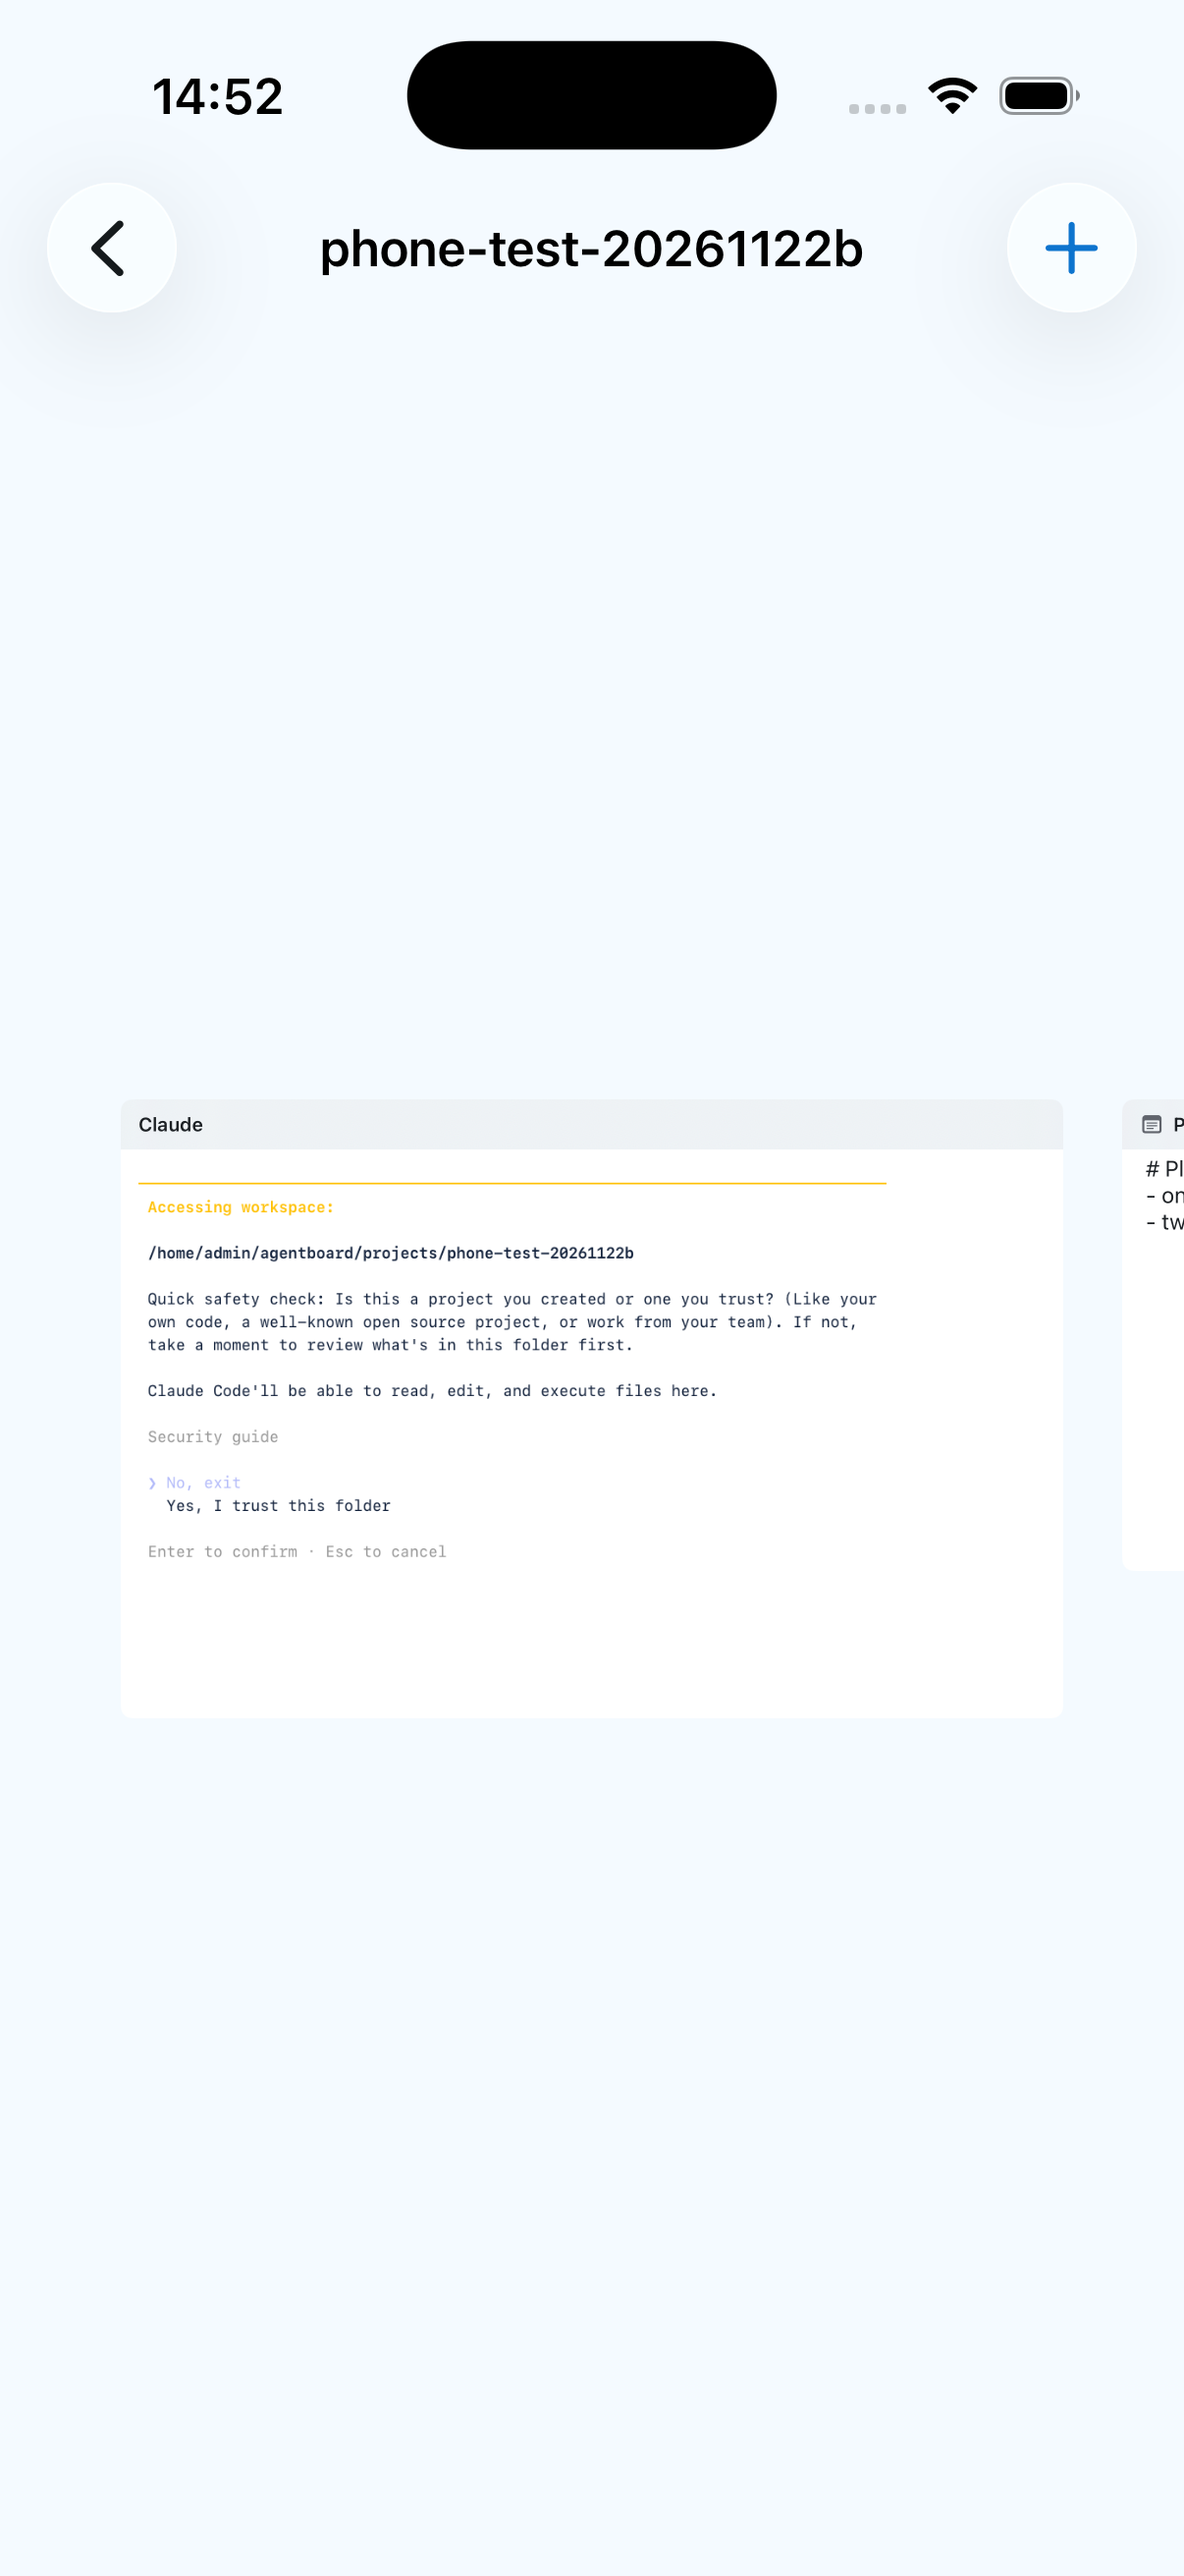
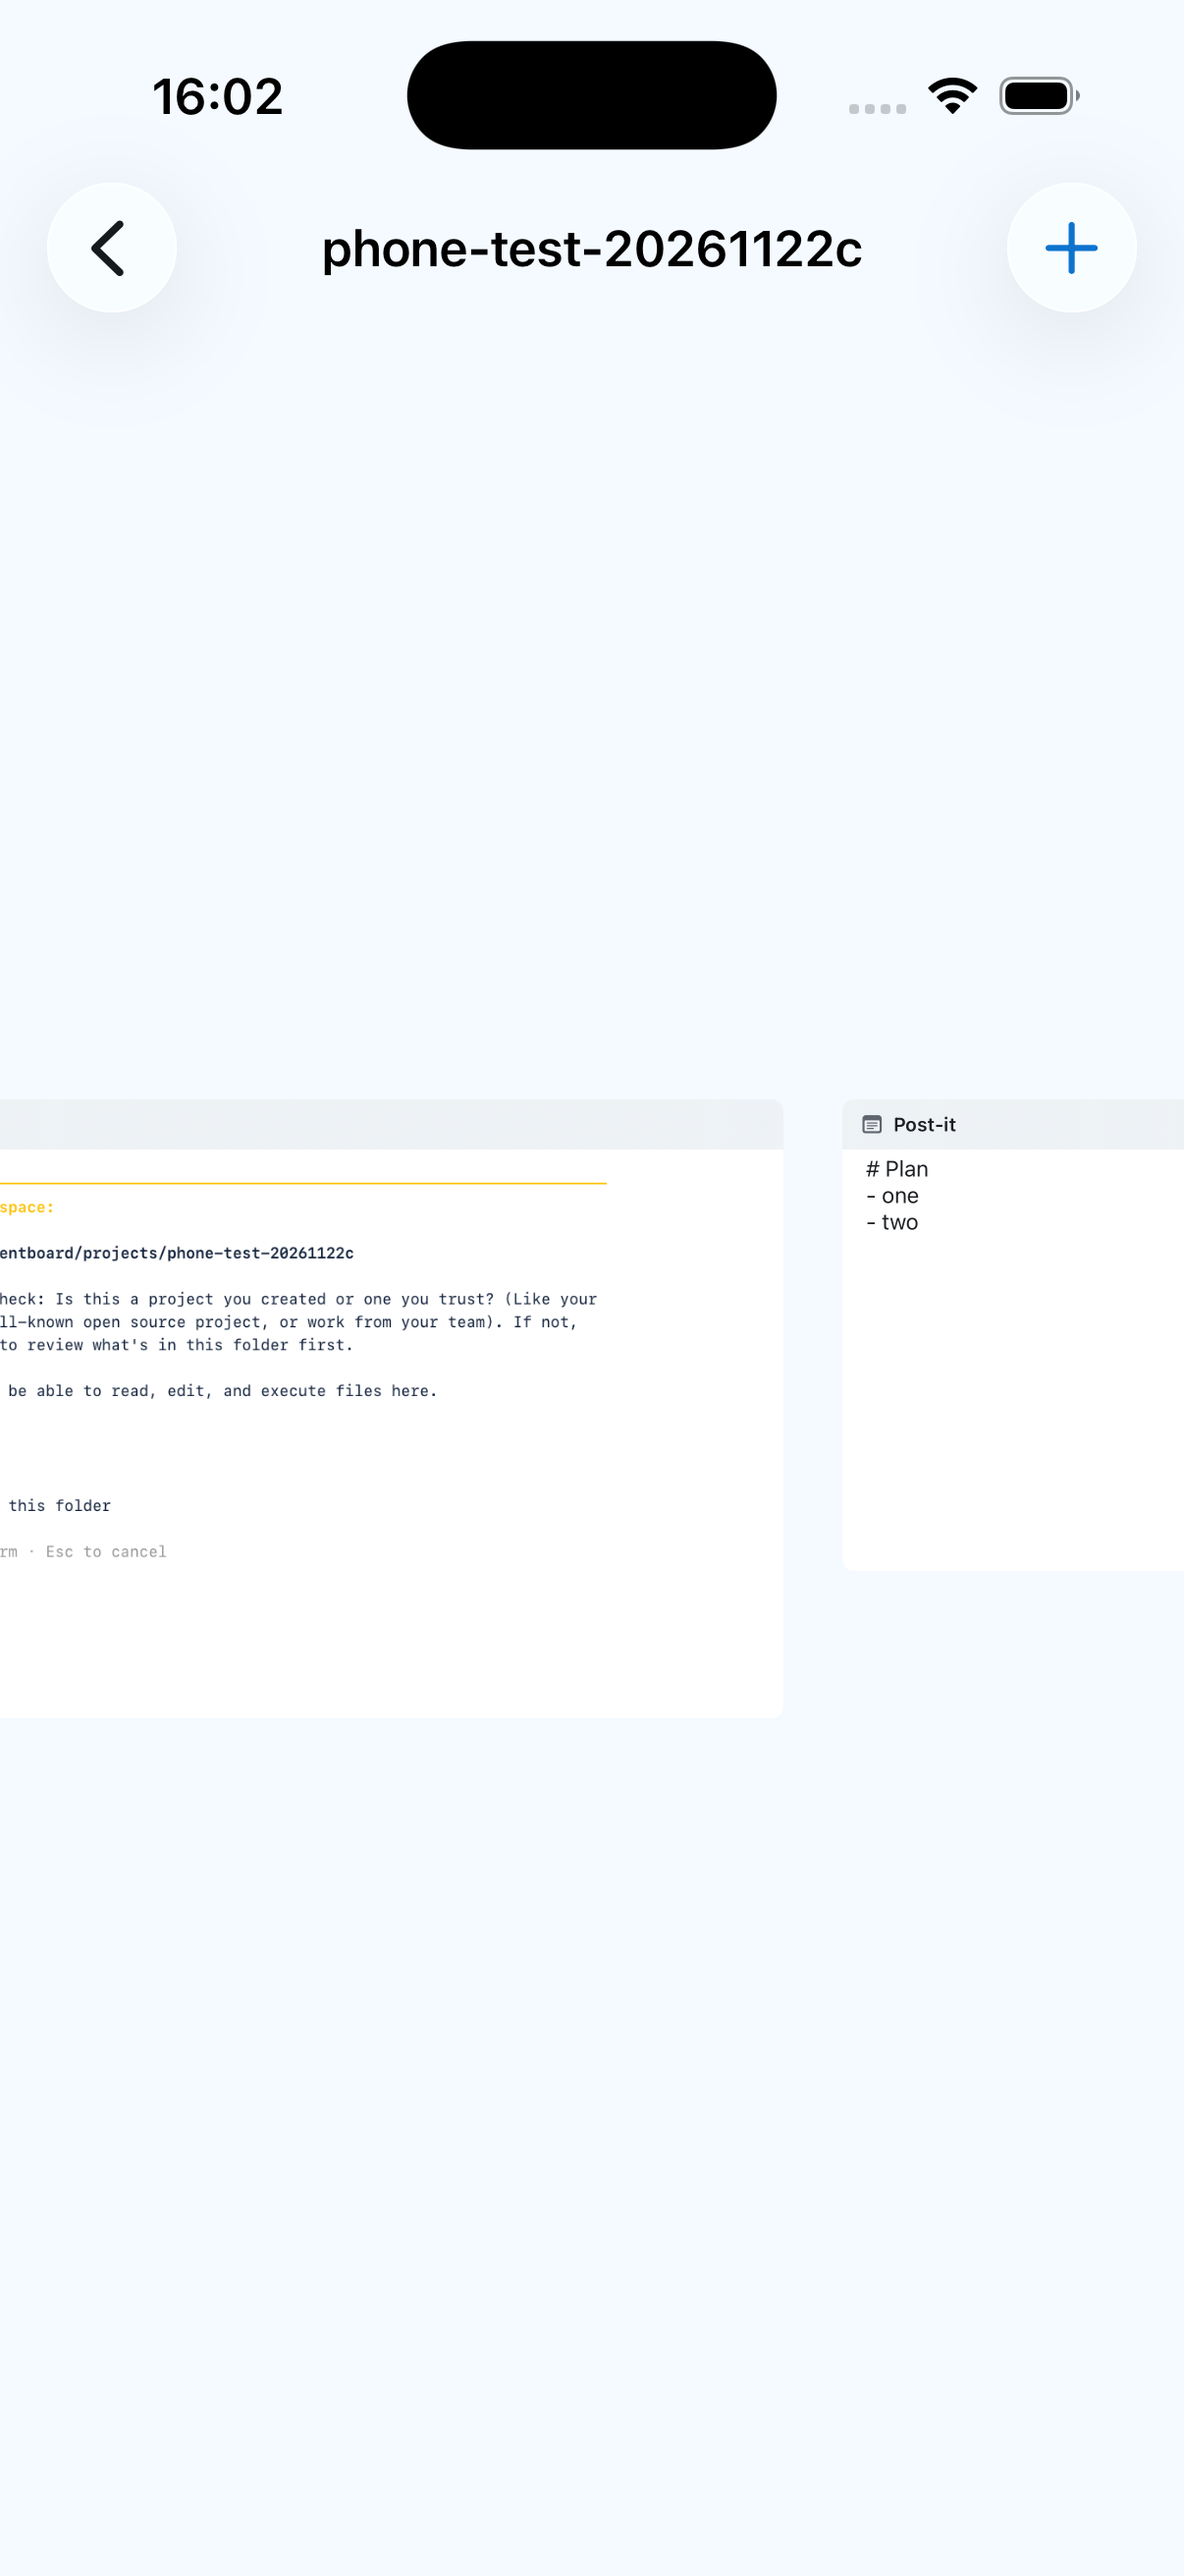
Phone: open fitted to every element, as the Mac frames a board; DEBUG layout log (board frame and screen position per element); board 7 screenshots

diff --git a/iOS/AgentBoardPhone/CanvasView.swift b/iOS/AgentBoardPhone/CanvasView.swift
@@ -49,14 +49,16 @@ struct CanvasView: View {
         GeometryReader { geometry in
             let bounds = (cards.map(\.frame) + Array(others.values)).reduce(CGRect.null) { $0.union($1) }
             let board = bounds.isNull ? CGRect(x: 0, y: 0, width: 1, height: 1) : bounds.insetBy(dx: -40, dy: -40)
-            // Starts with the terminal cards and post-its in view (the whole board when there are none): a
-            // long column of screenshots shouldn't shrink the agents to specks.
-            let cardBounds = (cards.map(\.frame) + notes.map(\.frame)).reduce(CGRect.null) { $0.union($1) }
-            let focus = cardBounds.isNull ? board : cardBounds.insetBy(dx: -40, dy: -40)
+            // Starts with every element in view, as the Mac frames a board.
+            let focus = board
             let fit = min(1, geometry.size.width / focus.width, geometry.size.height / focus.height)
             let scale = zoom == 0 ? fit : zoom
             let origin = CGPoint(x: focus.midX * scale - geometry.size.width / 2 - offset.width,
                                  y: focus.midY * scale - geometry.size.height / 2 - offset.height)
+            #if DEBUG
+            // Each element's board frame and where it lands on screen, once per layout change.
+            let _ = DebugLayout.log(scale: scale, origin: origin, [("card", cards.map { ($0.name, $0.frame) }), ("postit", notes.map { ($0.name, $0.frame) }), ("image", media.map { ($0.name, $0.frame) })])
+            #endif
             // What the screen shows, in board points: only cards there draw live.
             let visible = CGRect(x: origin.x / scale, y: origin.y / scale, width: geometry.size.width / scale, height: geometry.size.height / scale)
             let frame = { (card: Card) in dragging?.id == card.id ? dragging!.frame : card.frame }
@@ -439,3 +441,22 @@ struct DecisionBalloon: View {
 
     private static func distance(_ p: CGPoint, _ q: CGPoint) -> CGFloat { hypot(q.x - p.x, q.y - p.y) }
 }
+
+#if DEBUG
+@MainActor enum DebugLayout {
+    private static var last = ""
+
+    static func log(scale: CGFloat, origin: CGPoint, _ groups: [(String, [(String, CGRect)])]) {
+        // Off while measuring: building these strings every frame would be the cost measured.
+        guard !UserDefaults.standard.bool(forKey: "perf") else { return }
+        let lines = groups.flatMap { kind, items in items.map { name, f in
+            let screen = CGRect(x: f.minX * scale - origin.x, y: f.minY * scale - origin.y, width: f.width * scale, height: f.height * scale)
+            return "\(kind) \(name) board=\(Int(f.minX)),\(Int(f.minY)),\(Int(f.width)),\(Int(f.height)) screen=\(Int(screen.minX)),\(Int(screen.minY)),\(Int(screen.width)),\(Int(screen.height))"
+        } }
+        let text = "layout scale=\(String(format: "%.3f", scale))\n" + lines.joined(separator: "\n")
+        guard text != last else { return }
+        last = text
+        DebugTerm.log(text)
+    }
+}
+#endif
